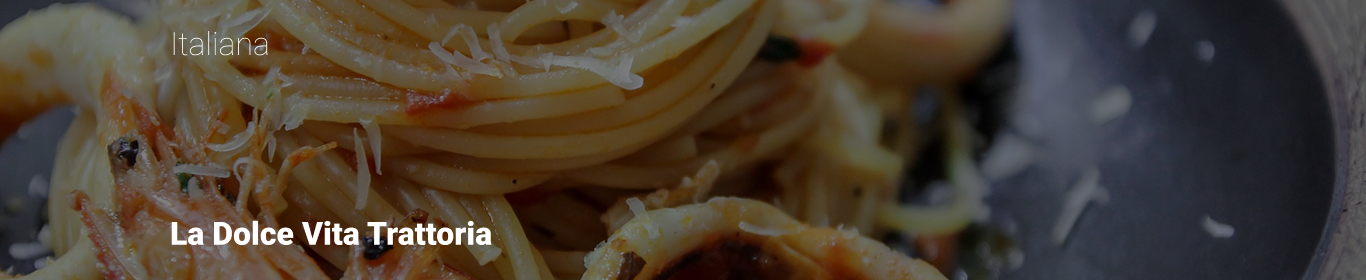
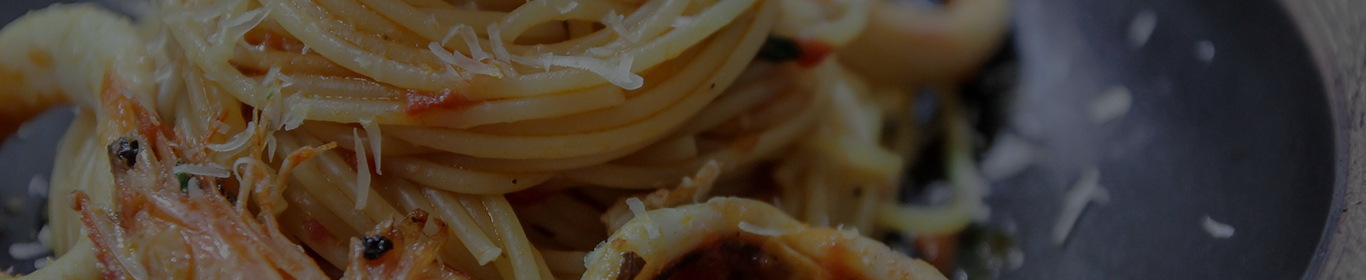
Versão do projeto 2.0

Changed region(s): [[0.123, 0.7714, 0.369, 0.8857], [0.123, 0.1143, 0.2152, 0.2]]

diff --git a/efood/src/pages/Profile/styles.ts b/efood/src/pages/Profile/styles.ts
@@ -47,17 +47,20 @@
     }
     `
 
+    /* ✅ LOGO EXATA DO FIGMA */
     export const Logo = styled.img`
-    height: 36px;
+    width: 125px;
+    height: 57.5px;
 
     @media (max-width: 768px) {
-        height: 28px;
+        width: 96px;
+        height: auto;
     }
     `
 
     /*
     ==================================================
-    HERO / BANNER DO PERFIL (FIGMA)
+    HERO / BANNER
     ==================================================
     */
 
@@ -68,57 +71,72 @@
     background-image: url(${heroImg});
     background-size: cover;
     background-position: center;
+    background-repeat: no-repeat;
 
     position: relative;
-
-    @media (max-width: 768px) {
-        height: 220px;
-    }
     `
 
+    /* ✅ Overlay correto (50%) */
     export const HeroOverlay = styled.div`
     position: absolute;
     inset: 0;
     background-color: rgba(0, 0, 0, 0.5);
     `
 
+    /* Container interno alinhado ao grid 1024 */
     export const HeroInner = styled.div`
     max-width: 1024px;
     height: 100%;
     margin: 0 auto;
-    padding: 24px 16px;
+    padding: 0 16px 32px 16px;
 
     position: relative;
     z-index: 1;
 
     display: flex;
     flex-direction: column;
-    justify-content: flex-end; /* 🔧 CORREÇÃO: textos embaixo */
+    justify-content: flex-end;
+
     color: #ffffff;
     `
 
+    /* ✅ ITALIANA — exatamente como no Figma */
     export const RestaurantType = styled.span`
+    font-family: 'Roboto', sans-serif;
     font-size: 32px;
     font-weight: 100;
+    line-height: 100%;
+    color: #ffffff;
+
     margin-bottom: 8px;
+
+    /* sobe somente ele */
+    transform: translateY(-150px);
 
     @media (max-width: 768px) {
         font-size: 20px;
     }
     `
 
+    /* ✅ TÍTULO PRINCIPAL */
     export const RestaurantTitle = styled.h1`
+    font-family: 'Roboto', sans-serif;
     font-size: 32px;
     font-weight: 900;
+    line-height: 100%;
+    letter-spacing: 0;
+    color: #ffffff;
+    margin: 0;
 
     @media (max-width: 768px) {
         font-size: 22px;
     }
-    `
+`
+
 
     /*
     ==================================================
-    LISTAGEM DE PRODUTOS
+    PRODUTOS
     ==================================================
     */
 
@@ -162,22 +180,25 @@
 
     export const ProductInfo = styled.div`
     padding: 8px;
-    color: #fff;
+    color: #ffffff;
 
     h3 {
         font-size: 16px;
         margin-bottom: 8px;
+        font-weight: 700;
     }
 
     p {
         font-size: 14px;
         line-height: 22px;
         margin-bottom: 8px;
+        font-weight: 400;
+        color: #ffffff; /* 🔥 MESMA COR DO TÍTULO */
     }
 
     button {
         width: 100%;
-        background-color: #fff;
+        background-color: #ffffff;
         color: #e66767;
         border: none;
         padding: 6px;

diff --git a/efood/src/components/RestaurantCard/styles.ts b/efood/src/components/RestaurantCard/styles.ts
@@ -1,31 +1,11 @@
     import styled from 'styled-components'
 
-    /*
-    ============================
-    CARD DO RESTAURANTE (HOME)
-    ============================
-
-    Ajustes aplicados:
-    ✔ Estrutura original preservada
-    ✔ Cores mantidas (fiéis ao Figma)
-    ✔ Padding interno exatamente como no Figma (16px)
-    ✔ Altura mínima definida conforme Figma (398px)
-    → evita espaços estranhos com textos menores
-    ✔ Nenhuma alteração estrutural ou de lógica
-    */
-
     export const Card = styled.div`
     background-color: #ffffff;
     border: 1px solid #e66767;
 
-    /* Altura mínima conforme Figma (melhor comportamento com dados reais) */
-    min-height: 398px;
-
     display: flex;
     flex-direction: column;
-
-    /* Espaçamento externo entre os cards */
-    margin-bottom: 32px;
 
     overflow: hidden;
     `
@@ -39,16 +19,11 @@
     height: 217px;
     object-fit: cover;
     display: block;
-    background-color: #f2f2f2;
-
-    @media (max-width: 768px) {
-        height: 180px;
-    }
     `
 
     export const Tag = styled.span`
     position: absolute;
-    top: 20px; /* Conforme Figma */
+    top: 16px;
     right: 16px;
 
     background-color: #e66767;
@@ -57,20 +32,14 @@
     font-size: 12px;
     font-weight: 700;
     padding: 4px 6px;
-
-    @media (max-width: 768px) {
-        font-size: 11px;
-        padding: 4px 5px;
-    }
     `
 
     export const Content = styled.div`
-    /* Padding exatamente como no Figma */
     padding: 16px;
 
-    flex: 1;
     display: flex;
     flex-direction: column;
+    flex: 1;
     `
 
     export const Header = styled.div`
@@ -84,10 +53,6 @@
     font-size: 18px;
     font-weight: 700;
     color: #e66767;
-
-    @media (max-width: 768px) {
-        font-size: 16px;
-    }
     `
 
     export const Rating = styled.div`
@@ -98,29 +63,19 @@
     font-size: 14px;
     font-weight: 700;
     color: #e66767;
-
-    @media (max-width: 768px) {
-        font-size: 13px;
-    }
     `
 
     export const Description = styled.p`
     font-size: 14px;
     line-height: 22px;
     font-weight: 400;
-    color: #4b4b4b;
+    color: #e66767;
 
     margin-bottom: 16px;
-
-    @media (max-width: 768px) {
-        font-size: 13px;
-        line-height: 20px;
-    }
     `
 
     export const Button = styled.button`
     margin-top: auto;
-    align-self: flex-start;
 
     background-color: #e66767;
     color: #ffffff;
@@ -134,10 +89,5 @@
 
     &:hover {
         opacity: 0.9;
-    }
-
-    @media (max-width: 768px) {
-        font-size: 13px;
-        padding: 6px 10px;
     }
     `
